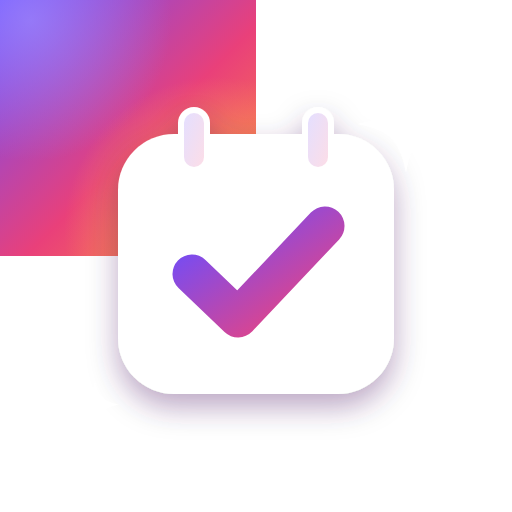
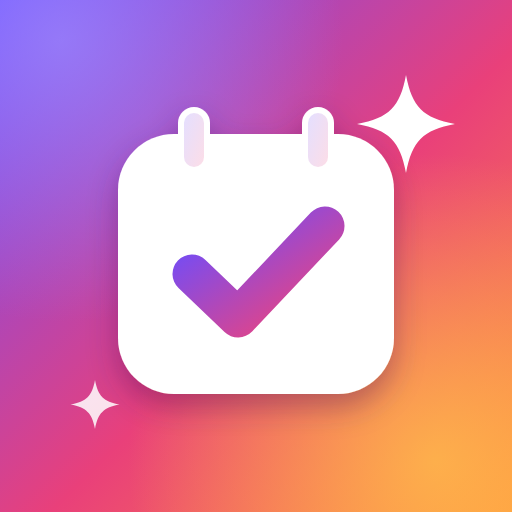
Add files via upload

diff --git a/index.html b/index.html
@@ -10,9 +10,9 @@
 <meta name="theme-color" content="#F6F7F9" media="(prefers-color-scheme: light)">
 <meta name="theme-color" content="#12161F" media="(prefers-color-scheme: dark)">
 <title>Study Planner</title>
-<link rel="manifest" href="manifest.webmanifest?v=2">
-<link rel="apple-touch-icon" href="icon-180.png?v=2">
-<link rel="icon" type="image/png" href="icon-192.png?v=2">
+<link rel="manifest" href="manifest.webmanifest?v=3">
+<link rel="apple-touch-icon" href="icon-180.png?v=3">
+<link rel="icon" type="image/png" href="icon-192.png?v=3">
 <script>
 /* Apply the saved theme before the page paints, so there's no flash. */
 (function(){ try{ var t = (JSON.parse(localStorage.getItem("studyplanner:prefs"))||{}).theme;

diff --git a/sw.js b/sw.js
@@ -1,6 +1,6 @@
 // Study Planner service worker: makes the app open offline from the Home Screen.
-const CACHE = "study-planner-v9";
-const SHELL = ["./", "./index.html", "./manifest.webmanifest?v=2", "./icon-180.png?v=2", "./icon-192.png?v=2", "./icon-512.png?v=2"];
+const CACHE = "study-planner-v10";
+const SHELL = ["./", "./index.html", "./manifest.webmanifest?v=3", "./icon-180.png?v=3", "./icon-192.png?v=3", "./icon-512.png?v=3"];
 
 self.addEventListener("install", e => {
   e.waitUntil(caches.open(CACHE).then(c => c.addAll(SHELL)).then(() => self.skipWaiting()));
